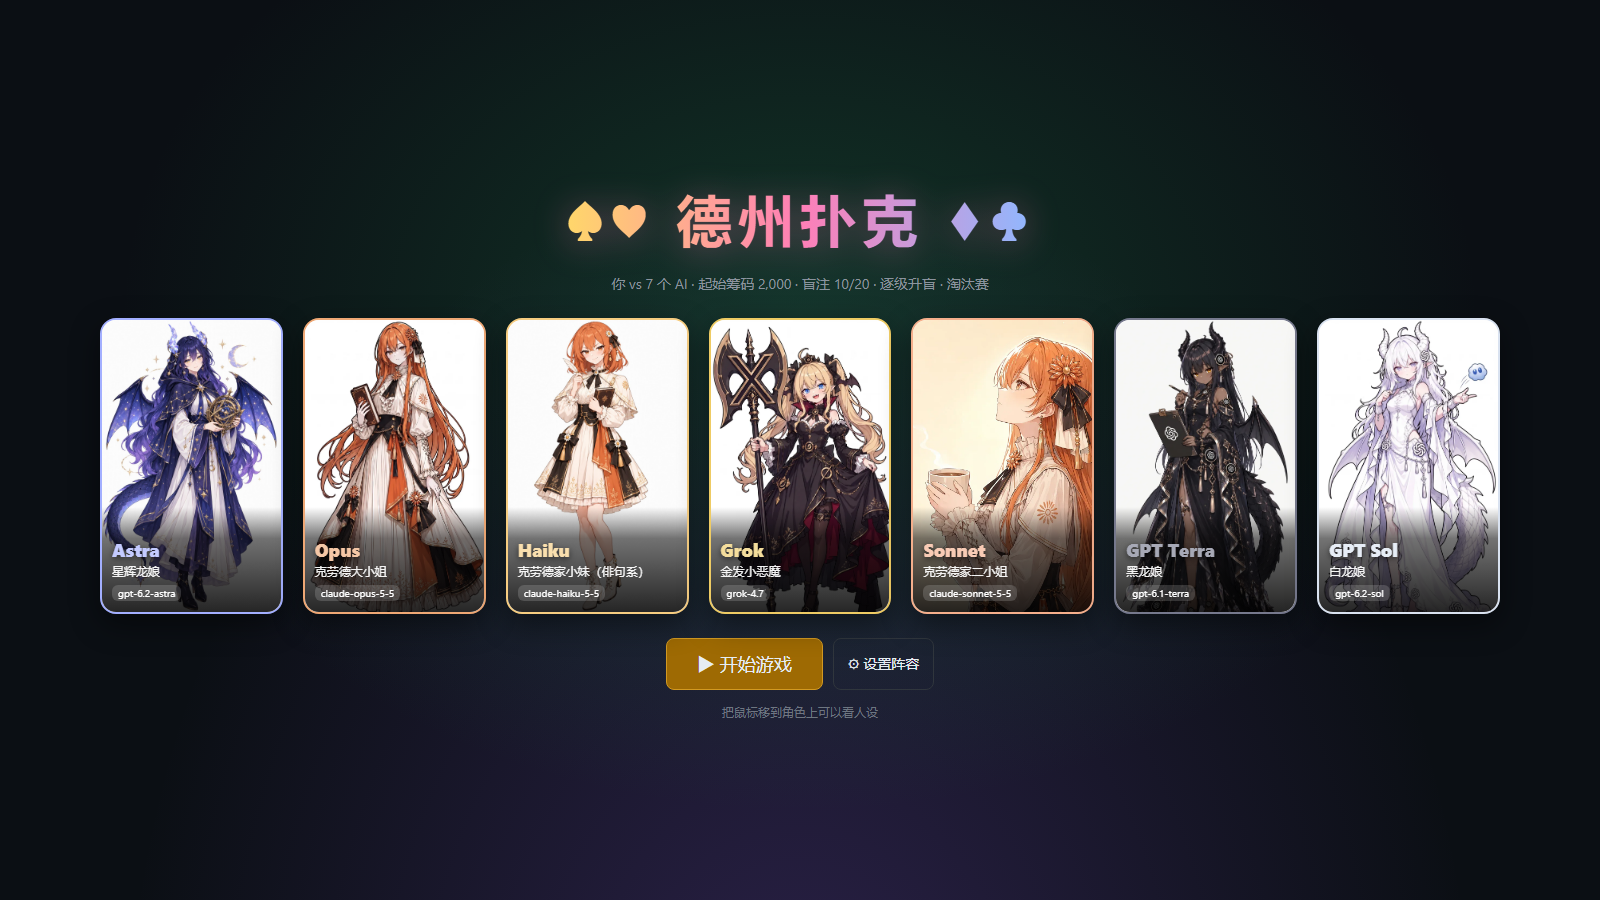
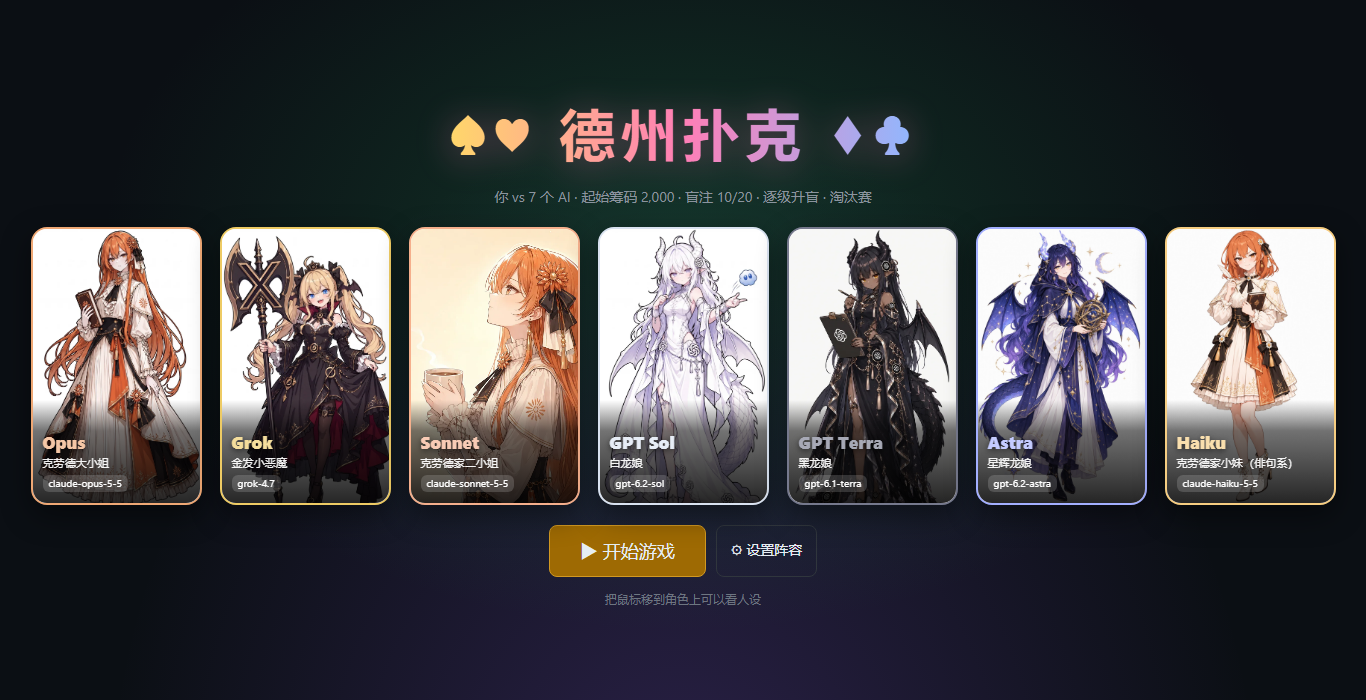
Start page: cast cards sized to the window (up to 360 px, 1-3 rows)

diff --git a/public/app.js b/public/app.js
@@ -669,6 +669,7 @@ function renderStart(s) {
     startClosedFor = s.gameId;
     renderStart(S);
   };
+  layoutCast();
   if ($('startGo'))
     $('startGo').onclick = () => {
       close();
@@ -678,6 +679,26 @@ function renderStart(s) {
   if ($('startJoin')) $('startJoin').onclick = () => openJoin(true);
   if ($('startSettings')) $('startSettings').onclick = () => openSettings('ai');
 }
+// Make the cast cards as large as the window allows: try 1–3 rows and keep the biggest card size.
+function layoutCast() {
+  const grid = document.querySelector('#start .cast-grid');
+  if (!grid) return;
+  const n = grid.children.length;
+  const gap = 18;
+  const W = Math.min(window.innerWidth * 0.96, 2400);
+  const H = window.innerHeight - 250;
+  let best = { w: 0, cols: n };
+  for (let rows = 1; rows <= 3; rows++) {
+    const cols = Math.ceil(n / rows);
+    const w = Math.min((W - gap * (cols - 1)) / cols, (H - gap * (rows - 1)) / rows / 1.62, 360);
+    if (w > best.w + 1) best = { w, cols };
+  }
+  const w = Math.max(120, Math.floor(best.w));
+  grid.style.setProperty('--cw', `${w}px`);
+  grid.style.maxWidth = `${best.cols * w + (best.cols - 1) * gap}px`;
+}
+window.addEventListener('resize', layoutCast);
+
 $('lineupBtn').onclick = () => {
   startManual = true;
   startKey = null;

diff --git a/public/style.css b/public/style.css
@@ -597,3 +597,13 @@ aside .panel:first-child { flex: 1 1 auto; min-height: 160px; display: flex; fle
 .cast .nm { font-size: clamp(13px, 1.2vw, 18px); }
 @media (max-width: 860px) { .cast-grid { flex-wrap: wrap; } .cast { flex: 0 0 140px; } }
 .log .tools { font-size: 11px; color: #79c0ff; cursor: help; }
+
+/* bigger cast cards: size comes from layoutCast() (--cw) */
+.start-inner { width: 100%; }
+.cast-grid { flex-wrap: wrap; justify-content: center; gap: 18px; width: 100%; margin: 6px auto 0; }
+.cast { flex: 0 0 var(--cw, 200px); width: var(--cw, 200px); max-width: none; }
+.cast .nm { font-size: clamp(14px, calc(var(--cw, 200px) * .1), 26px); }
+.cast .tt { font-size: clamp(11px, calc(var(--cw, 200px) * .065), 16px); }
+.cast .md { font-size: clamp(10px, calc(var(--cw, 200px) * .05), 13px); }
+.cast .ps { font-size: clamp(11px, calc(var(--cw, 200px) * .058), 14px); }
+.cast .art img { image-rendering: auto; }
